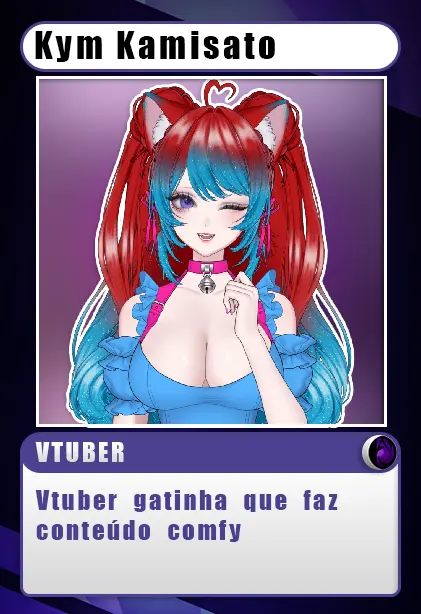
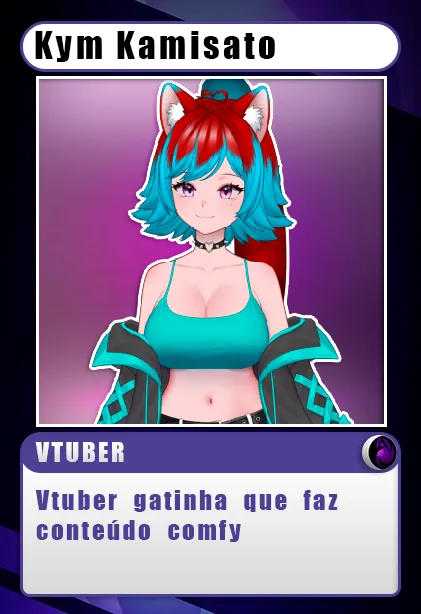
Saiu: Coffee e Mei / Atualizou IMG: Kym

Changed region(s): [[0.1235, 0.1238, 0.8646, 0.7117], [0.8955, 0.7117, 0.9264, 0.7427]]

diff --git a/index.html b/index.html
@@ -31,7 +31,7 @@
     <div class="slideshow-container">
 
         <div class="slideshow fade imgSlides">
-            <div class="numeracao">1 / 12</div>
+            <div class="numeracao">1 / 10</div>
             <div class="imgSlide IS01"></div>
             <div class="legenda">UM MULTIVERSO<br>
 				DE POSSIBILIDADES!
@@ -39,7 +39,7 @@
         </div>
 
         <div class="slideshow fade imgSlides">
-            <div class="numeracao">2 / 12</div>
+            <div class="numeracao">2 / 10</div>
             <div class="imgSlide IS02"></div>
             <div class="legenda">UM MULTIVERSO<br>
 				DE POSSIBILIDADES!
@@ -47,7 +47,7 @@
         </div>
 
         <div class="slideshow fade imgSlides">
-            <div class="numeracao">3 / 12</div>
+            <div class="numeracao">3 / 10</div>
             <div class="imgSlide IS03"></div>
             <div class="legenda">UM MULTIVERSO<br>
 				DE POSSIBILIDADES!
@@ -55,7 +55,7 @@
         </div>
 
         <div class="slideshow fade imgSlides">
-            <div class="numeracao">4 / 12</div>
+            <div class="numeracao">4 / 10</div>
             <div class="imgSlide IS04"></div>
             <div class="legenda">UM MULTIVERSO<br>
 				DE POSSIBILIDADES!
@@ -63,7 +63,7 @@
         </div>
 
         <div class="slideshow fade imgSlides">
-            <div class="numeracao">5 / 12</div>
+            <div class="numeracao">5 / 10</div>
             <div class="imgSlide IS05"></div>
             <div class="legenda">UM MULTIVERSO<br>
 				DE POSSIBILIDADES!
@@ -71,7 +71,7 @@
         </div>
 
         <div class="slideshow fade imgSlides">
-            <div class="numeracao">6 / 12</div>
+            <div class="numeracao">6 / 10</div>
             <div class="imgSlide IS06"></div>
             <div class="legenda">UM MULTIVERSO<br>
 				DE POSSIBILIDADES!
@@ -79,7 +79,7 @@
         </div>
 
         <div class="slideshow fade imgSlides">
-            <div class="numeracao">7 / 12</div>
+            <div class="numeracao">7 / 10</div>
             <div class="imgSlide IS07"></div>
             <div class="legenda">UM MULTIVERSO<br>
 				DE POSSIBILIDADES!
@@ -87,7 +87,7 @@
         </div>
 
         <div class="slideshow fade imgSlides">
-            <div class="numeracao">8 / 12</div>
+            <div class="numeracao">8 / 10</div>
             <div class="imgSlide IS08"></div>
             <div class="legenda">UM MULTIVERSO<br>
 				DE POSSIBILIDADES!
@@ -95,7 +95,7 @@
         </div>
 
         <div class="slideshow fade imgSlides">
-            <div class="numeracao">9 / 12</div>
+            <div class="numeracao">9 / 10</div>
             <div class="imgSlide IS09"></div>
             <div class="legenda">UM MULTIVERSO<br>
 				DE POSSIBILIDADES!
@@ -103,24 +103,8 @@
         </div>
 
         <div class="slideshow fade imgSlides">
-            <div class="numeracao">10 / 12</div>
+            <div class="numeracao">10 / 10</div>
             <div class="imgSlide IS10"></div>
-            <div class="legenda">UM MULTIVERSO<br>
-				DE POSSIBILIDADES!
-		    </div>
-        </div>
-
-        <div class="slideshow fade imgSlides">
-            <div class="numeracao">11 / 12</div>
-            <div class="imgSlide IS11"></div>
-            <div class="legenda">UM MULTIVERSO<br>
-				DE POSSIBILIDADES!
-		    </div>
-        </div>
-
-        <div class="slideshow fade imgSlides">
-            <div class="numeracao">12 / 12</div>
-            <div class="imgSlide IS12"></div>
             <div class="legenda">UM MULTIVERSO<br>
 				DE POSSIBILIDADES!
 		    </div>
@@ -142,8 +126,6 @@
         <span class="dot" onclick="currentSlide(08)"></span>
         <span class="dot" onclick="currentSlide(09)"></span>
         <span class="dot" onclick="currentSlide(10)"></span>
-        <span class="dot" onclick="currentSlide(11)"></span>
-        <span class="dot" onclick="currentSlide(12)"></span>
     </div>
 
     <div align="center">
@@ -156,12 +138,6 @@
         <div title="Clique para ver mais informa&ccedil;&otilde;es">
             <a href='https://linktr.ee/ayanosano' target='_blank'>
             <img src="Imagens/Card_Ayano_Sano.webp"
-            alt="" class="capas CF"> </a>
-        </div>
-
-        <div title="Clique para ver mais informa&ccedil;&otilde;es">
-            <a href='https://links.coffeesan.live/' target='_blank'>
-            <img src="Imagens/Card_Coffee_San.webp"
             alt="" class="capas CF"> </a>
         </div>
 
@@ -204,12 +180,6 @@
         <div title="Clique para ver mais informa&ccedil;&otilde;es">
             <a href='https://lykosapokryphos.carrd.co' target='_blank'>
             <img src="Imagens/Card_Lykos_Apokryphos.webp"
-            alt="" class="capas CF"> </a>
-        </div>
-
-        <div title="Clique para ver mais informa&ccedil;&otilde;es">
-            <a href='https://meizukamori.carrd.co' target='_blank'>
-            <img src="Imagens/Card_Mei_Zukamori.webp"
             alt="" class="capas CF"> </a>
         </div>
 

diff --git a/style.css b/style.css
@@ -184,10 +184,11 @@ body{
     border: 50px solid rgba(0,0,0,0);
 }
 
+/* CARTAS MOBILE */
 @media (max-width: 1000px){
 	.wrapper_01{
 	    display: grid;
-	    grid-template-columns: repeat(17, 150px);
+	    grid-template-columns: repeat(11, 150px);
 	    overflow-x: scroll;
 	    overflow-y: hidden;
 	    white-space: nowrap;
@@ -287,17 +288,15 @@ section div:last-child{
 }
 
 .IS01{background-image: url(Imagens/ImgSl/IS-Ayano-Sano.webp); background-position: center; background-repeat: no-repeat; background-size: cover;}
-.IS02{background-image: url(Imagens/ImgSl/IS-CoffeeSan.webp); background-position: center;  background-repeat: no-repeat; background-size: cover;}
-.IS03{background-image: url(Imagens/ImgSl/IS-Desu.webp); background-position: center; background-repeat: no-repeat; background-size: cover;}
-.IS04{background-image: url(Imagens/ImgSl/IS-Kamii_Chaos.webp); background-position: center; background-repeat: no-repeat; background-size: cover;}
-.IS05{background-image: url(Imagens/ImgSl/IS-Kuroy-Wildhavoc.webp); background-position: center; background-repeat: no-repeat; background-size: cover;}
-.IS06{background-image: url(Imagens/ImgSl/IS-Kym_Kamisato.webp); background-position: center; background-repeat: no-repeat; background-size: cover;}
-.IS07{background-image: url(Imagens/ImgSl/IS-Lady_Clara_Reis.webp); background-position: center;  background-repeat: no-repeat; background-size: cover;}
-.IS08{background-image: url(Imagens/ImgSl/IS-Lady-Wise-Plus.webp); background-position: center;  background-repeat: no-repeat; background-size: cover;}
-.IS09{background-image: url(Imagens/ImgSl/IS-Lykos-Apokryphos.webp); background-position: center; background-repeat: no-repeat; background-size: cover;}
-.IS10{background-image: url(Imagens/ImgSl/IS-Mei-Zukamori.webp); background-position: center;  background-repeat: no-repeat; background-size: cover;}
-.IS11{background-image: url(Imagens/ImgSl/IS-Nethozzeth.webp); background-position: center;  background-repeat: no-repeat; background-size: cover;}
-.IS12{background-image: url(Imagens/ImgSl/IS-Pudim.webp); background-position: center; background-repeat: no-repeat; background-size: cover;}
+.IS02{background-image: url(Imagens/ImgSl/IS-Desu.webp); background-position: center; background-repeat: no-repeat; background-size: cover;}
+.IS03{background-image: url(Imagens/ImgSl/IS-Kamii_Chaos.webp); background-position: center; background-repeat: no-repeat; background-size: cover;}
+.IS04{background-image: url(Imagens/ImgSl/IS-Kuroy-Wildhavoc.webp); background-position: center; background-repeat: no-repeat; background-size: cover;}
+.IS05{background-image: url(Imagens/ImgSl/IS-Kym_Kamisato.webp); background-position: center; background-repeat: no-repeat; background-size: cover;}
+.IS06{background-image: url(Imagens/ImgSl/IS-Lady_Clara_Reis.webp); background-position: center;  background-repeat: no-repeat; background-size: cover;}
+.IS07{background-image: url(Imagens/ImgSl/IS-Lady-Wise-Plus.webp); background-position: center;  background-repeat: no-repeat; background-size: cover;}
+.IS08{background-image: url(Imagens/ImgSl/IS-Lykos-Apokryphos.webp); background-position: center; background-repeat: no-repeat; background-size: cover;}
+.IS09{background-image: url(Imagens/ImgSl/IS-Nethozzeth.webp); background-position: center;  background-repeat: no-repeat; background-size: cover;}
+.IS10{background-image: url(Imagens/ImgSl/IS-Pudim.webp); background-position: center; background-repeat: no-repeat; background-size: cover;}
 
 .prev,
 .next{
